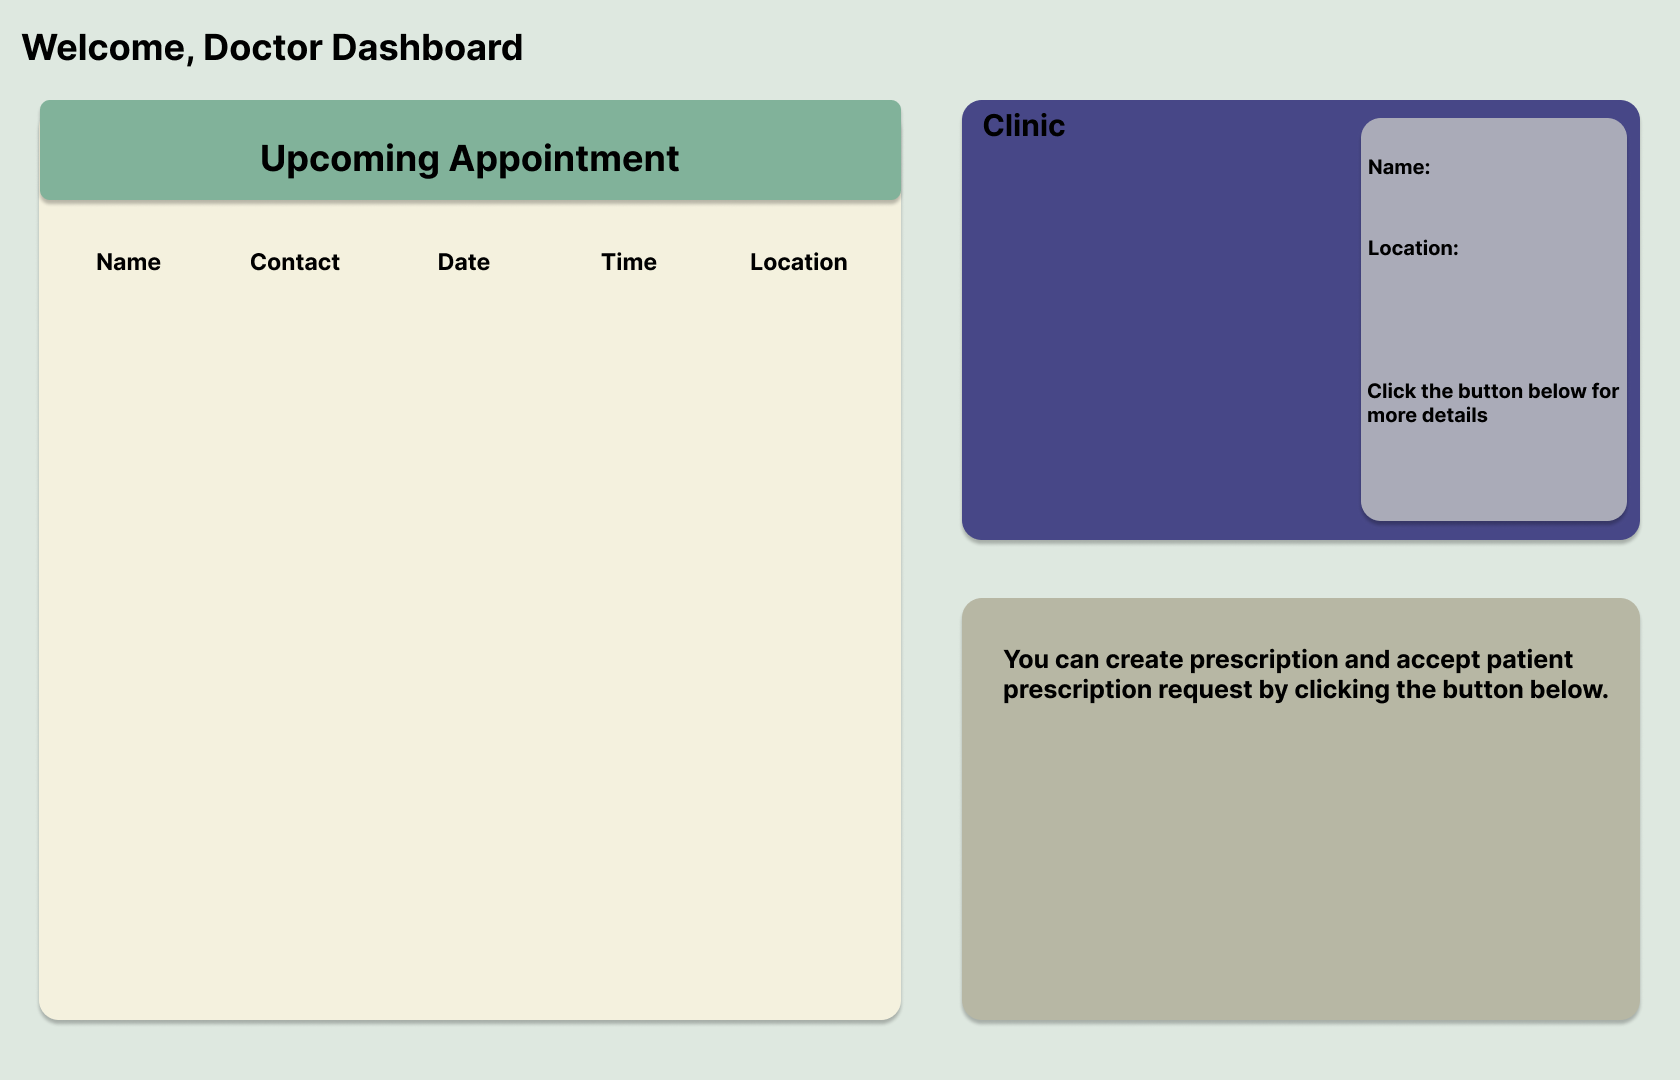
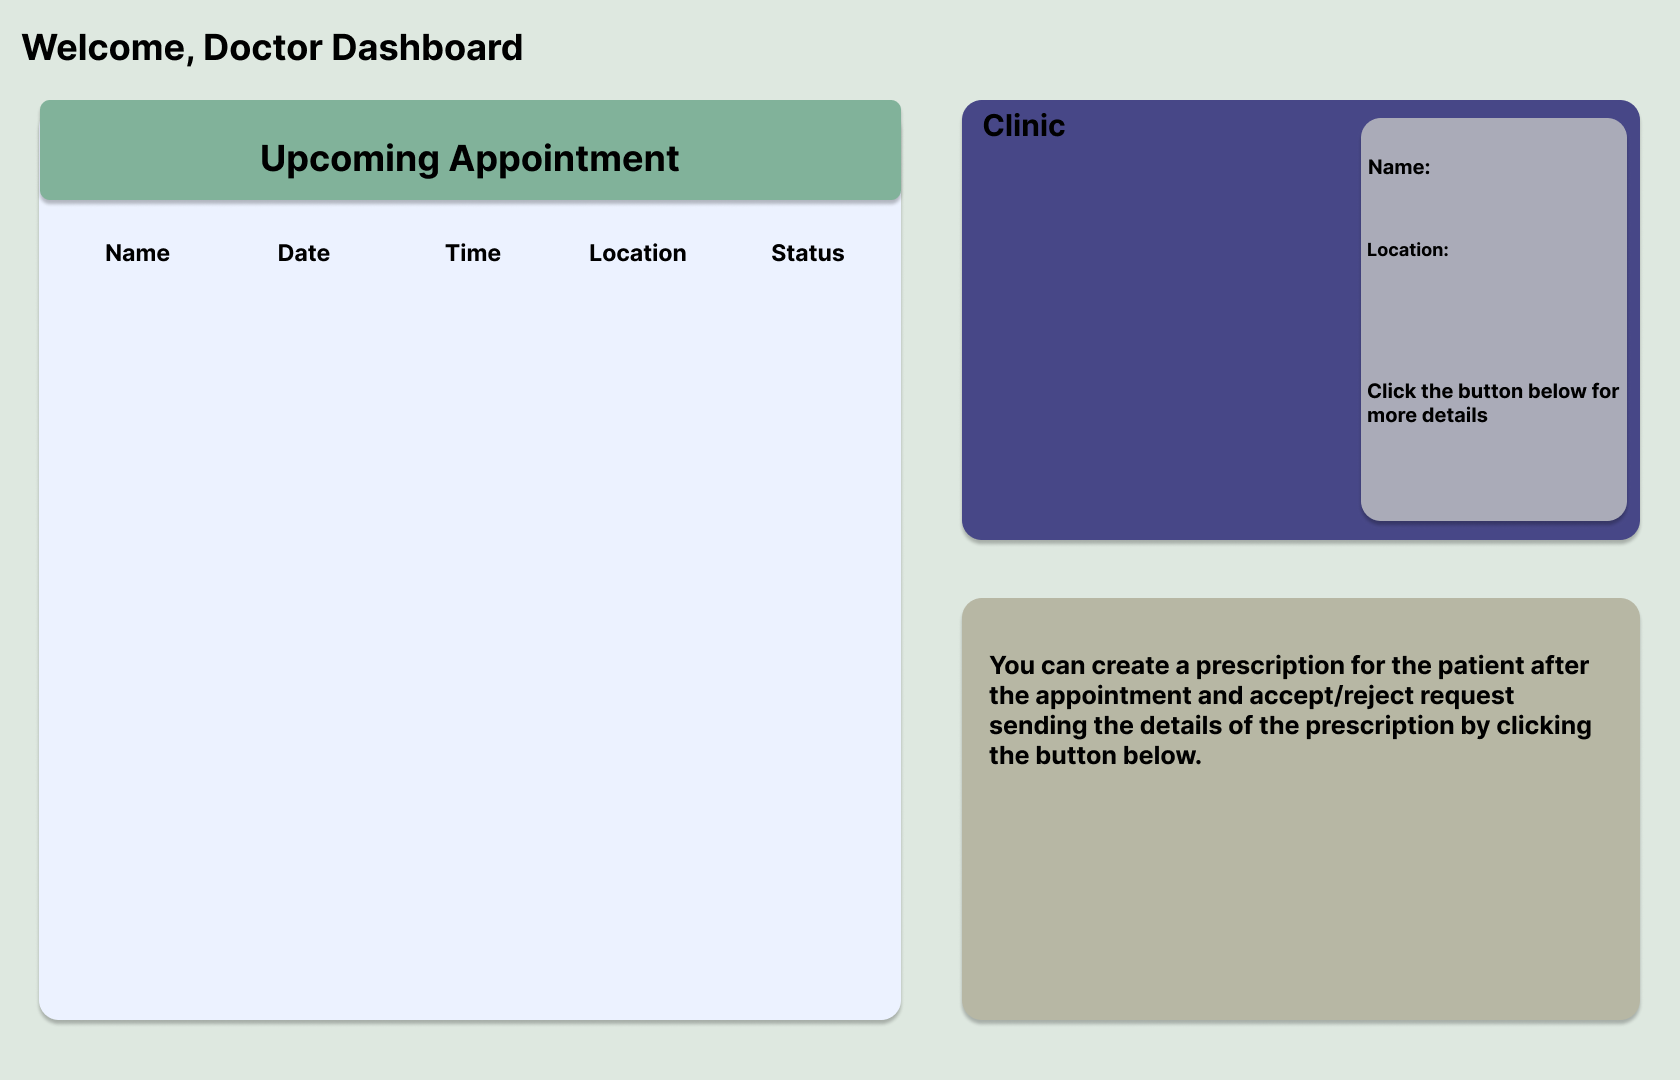
doctor information added

diff --git a/views/browseClinic/doctorBrowse.py b/views/browseClinic/doctorBrowse.py
@@ -1,3 +1,7 @@
+from __future__ import annotations
+from typing import TYPE_CHECKING
+if TYPE_CHECKING:
+    from views.dashboard.doctorDashboard import DoctorDashboard
 from abc import ABC, abstractmethod
 import calendar
 import re
@@ -5,7 +9,8 @@ import threading
 from tkinter import *
 import tkinter as tk
 from tkinter import messagebox
-from prisma.models import Appointment
+from prisma.models import Clinic
+from PIL import Image, ImageOps, ImageTk
 from ttkbootstrap.constants import *
 from ttkbootstrap.toast import ToastNotification
 from ttkbootstrap.scrolled import ScrolledFrame, ScrolledText
@@ -21,23 +26,25 @@ import tkintermapview
 
 
 class DoctorBrowseClinic(Frame):
-    def __init__(self, parent=None, controller: ElementCreator = None):
+    def __init__(self, parent: DoctorDashboard=None, controller: ElementCreator = None):
         super().__init__(parent, width=1, height=1, bg="#dee8e0", name="secondarypanel")
         self.controller = controller
         self.parent = parent
         gridGenerator(self, 84, 54, "#dee8e0")
         self.grid(row=0, column=12, columnspan=84, rowspan=54, sticky=NSEW)
+        self.user = self.parent.user
         self.prisma = self.controller.mainPrisma
         self.createFrames()
         self.createElements()
         self.getClinicInformation()
+        self.loadClinic()
 
     def createFrames(self):
         pass
 
     def createElements(self):
         self.controller.labelCreator(
-            ipath="assets/Dashboard/DoctorAssets/DoctorClinic.png",
+            ipath="assets/Dashboard/DoctorAssets/DoctorBrowse.png",
             x=0, y=0, classname="DoctorClinic", root=self
         )
 
@@ -58,67 +65,125 @@ class DoctorBrowseClinic(Frame):
             clinic = viewClinicList[0]  
 
 
-            #clinic data
-            #clinic_name = clinic.name
-            #clinic_address = clinic.address
-            #clinic_Phone = clinic.phoneNum
-            #clinic_hrs = clinic.clinicHrs
-            #clinic_city = clinic.city
-            #clinic_state = clinic.state
-            #clinic_zip = clinic.zip
+            # clinic data
+            clinic_name = clinic.name
+            clinic_address = clinic.address
+            clinic_Phone = clinic.phoneNum
+            clinic_hrs = clinic.clinicHrs
+            clinic_city = clinic.city
+            clinic_state = clinic.state
+            clinic_zip = clinic.zip
 
-            #doctor data
-            #doctor_name = clinic.doctor.user.fullName
-            #doctor_speciality = clinic.doctor.speciality
+            # # doctor data
+            # doctor_name = clinic.doctor.user.fullName
+            # doctor_speciality = clinic.doctor.speciality
 
-            #ClinicName = self.controller.scrolledTextCreator(
-            #    x=1295, y=110, width=554, height=72, classname=f"clinic_details_name",
-            #    bg="#FEFEFE", hasBorder=TRUE,
-            #    text=f"{clinic_name}", font=("Inter", 30), fg=BLACK,
-            #    isDisabled=True, isJustified=True, justification="center",
-            #)
+            ClinicName = self.controller.scrolledTextCreator(
+               x=1065, y=110, width=554, height=72, classname=f"clinic_details_name",
+               root=self, bg="#D1E8E2", hasBorder=TRUE,
+               text=f"{clinic_name}", font=("Inter", 30), fg=BLACK,
+               isDisabled=True, isJustified=True, justification="center", isPlaced=True,
+            )
 
             ClinicAddress = self.controller.scrolledTextCreator(
-                x=480, y=220, width=622, height=60, classname=f"clinic_details_address",
-                bg="#FFFFD0", hasBorder=False,
-                text=f"{clinic_address}", font=("Inter", 30), fg=BLACK,
-                isDisabled=True, isJustified=True, justification="left",
+                x=170, y=230, width=700, height=60, classname=f"clinic_details_address",
+                root=self, bg="#D1E8E2", hasBorder=True,
+                text=f"{clinic_address}", font=("Inter", 20), fg=BLACK,
+                isDisabled=True, isJustified=True, justification="center", isPlaced=True,
             )
 
-            ClinicState = self.controller.scrolledTextCreator(
-                x=418, y=320, width=240, height=60, classname=f"clinic_details_status",
-                bg="#FEFEFE", hasBorder=False,
-                text=f"{clinic_Phone}", font=("Inter", 30), fg=BLACK,
-                isDisabled=True, isJustified=True, justification="left",
-            )
-
-            CliniOpenHrs = self.controller.scrolledTextCreator(
-                x=862, y=320, width=240, height=60, classname=f"clinic_details_openhrs",
-                bg="#FEFEFE", hasBorder=False,
-                text=f"{clinic_hrs}", font=("Inter", 30), fg=BLACK,
-                isDisabled=True, isJustified=True, justification="left",
+            ClinicContact = self.controller.scrolledTextCreator(
+                x=170, y=325, width=240, height=60, classname=f"clinic_details_status",
+                root=self, bg="#D1E8E2", hasBorder=True,
+                text=f"{clinic_Phone}", font=("Inter", 20), fg=BLACK,
+                isDisabled=True, isJustified=True, justification="center", isPlaced=True,
             )
 
             ClinicCity = self.controller.scrolledTextCreator(
-                x=418, y=420, width=240, height=60, classname=f"clinic_details_city",
-                bg="#FEFEFE", hasBorder=False,
-                text=f"{clinic_city}", font=("Inter", 30), fg=BLACK,
-                isDisabled=True, isJustified=True, justification="left",
+                x=612, y=325, width=240, height=60, classname=f"clinic_details_openhrs",
+                root=self, bg="#D1E8E2", hasBorder=True,
+                text=f"{clinic_city}", font=("Inter", 20), fg=BLACK,
+                isDisabled=True, isJustified=True, justification="center", isPlaced=True,
             )
 
             ClinicState = self.controller.scrolledTextCreator(
-                x=862, y=420, width=240, height=60, classname=f"clinic_details_state",
-                bg="#FEFEFE", hasBorder=False,
-                text=f"{clinic_state}", font=("Inter", 30), fg=BLACK,
-                isDisabled=True, isJustified=True, justification="left",
+                x=170, y=420, width=240, height=60, classname=f"clinic_details_city",
+                root=self, bg="#D1E8E2", hasBorder=True,
+                text=f"{clinic_state}", font=("Inter", 20), fg=BLACK,
+                isDisabled=True, isJustified=True, justification="center", isPlaced=True,
             )
 
-            ClinicZip = self.controller.scrolledTextCreator(
-                x=418, y=520, width=240, height=60, classname=f"clinic_details_zip",
-                bg="#FEFEFE", hasBorder=False,
-                text=f"{clinic_zip}", font=("Inter", 30), fg=BLACK,
-                isDisabled=True, isJustified=True, justification="left",
+            ClinicZi = self.controller.scrolledTextCreator(
+                x=612, y=420, width=240, height=60, classname=f"clinic_details_state",
+                root=self, bg="#D1E8E2", hasBorder=True,
+                text=f"{clinic_zip}", font=("Inter", 20), fg=BLACK,
+                isDisabled=True, isJustified=True, justification="center", isPlaced=True,
             )
+
+            ClinicHours = self.controller.scrolledTextCreator(
+                x=228, y=515, width=250, height=60, classname=f"clinic_details_zip",
+                root=self, bg="#D1E8E2", hasBorder=True,
+                text=f"{clinic_hrs}", font=("Inter", 20), fg=BLACK,
+                isDisabled=True, isJustified=True, justification="center", isPlaced=True,
+            )
+
+            #DoctorName = self.controller.scrolledTextCreator(
+            #    x=1295, y=110, width=554, height=72, classname=f"clinic_doctor_name",
+            #    bg="#FEFEFE", hasBorder=False,
+            #    isDisabled=True, isJustified=True, justification="center",
+            #)
+
+            #ClinicName = self.controller.scrolledTextCreator(
+            #    x=1295, y=110, width=554, height=72, classname=f"clinic_doctor_name",
+            #    bg="#FEFEFE", hasBorder=False,
+            #    text=f"{clinic_name}", font=("Inter", 30), fg=BLACK,
+            #    isDisabled=True, isJustified=True, justification="center",
+            #)
+    
+
+
+    def loadClinic(self):
+        prisma = self.prisma
+        clinic = prisma.clinic.find_first(
+            where={
+                "doctor":{
+                    "some": {
+                        "userId": self.user.id
+                    }
+                }
+            },
+        )
+        R = self
+        self.viewedClinic = clinic
+        img = self.controller.decodingBase64Data(clinic.clinicImg)
+        self.viewedClinicTitle = self.controller.scrolledTextCreator(
+            x=120, y=20, width=720, height=80, root=R, classname="doctor_loadedclinic_title",
+            bg="#dee8e0",
+            text=f"Browsing Details of { clinic.name }", font=("Inter Bold", 24), fg=BLACK,
+            isDisabled=True, isJustified=True, justification="left",
+        )
+        img = ImageOps.contain(img, (693, 793), Image.Resampling.BICUBIC)
+        self.clinicImage = self.controller.labelCreator(
+            x=40, y=120, classname="doctor_loadedclinic_image", root=R,
+            ipath="assets/BrowseClinic/Patient/BrowseSingleClinic/ClinicImagePlaceholder.png",
+            bg="#a6cbff",
+            isPlaced=True
+        )
+        self.controller.imageDict["doctor_loadedclinic_image"] = ImageTk.PhotoImage(
+            img
+        )
+        newImage = self.controller.imageDict["doctor_loadedclinic_image"]
+        self.clinicImage.configure(image=newImage, width=693, height=793)
+        self.clinicImage.place(x=965, y=120, width=700, height=700)
+        formatAddress = f"{clinic.address}, {clinic.zip}, {clinic.city}, {clinic.state.replace('_', ' ').title()}"
+        self.clinicAddress = self.controller.scrolledTextCreator(
+            x=140, y=1000, width=660, height=100, root=self.loadedClinicFrame, classname="patient_loadedclinic_address",
+            bg=WHITE, hasBorder=BLACK,
+            text=formatAddress, font=("Inter Bold", 18), fg=BLACK,
+            isDisabled=True, isJustified=True, justification="left",
+            hasVbar=False
+        )
+
 
             #DoctorName = self.controller.scrolledTextCreator(
             #    x=1295, y=110, width=554, height=72, classname=f"clinic_doctor_name",

diff --git a/views/dashboard/doctorDashboard.py b/views/dashboard/doctorDashboard.py
@@ -58,19 +58,26 @@ class DoctorDashboard(Frame):
 
     def ScrolledFrame(self):
         prisma = self.prisma
+        doctor = prisma.doctor.find_first(
+            where={
+                "userId" : self.user.id
+            }
+        )
         viewAppointment = prisma.appointment.find_many(
+            where={
+                "doctorId":doctor.id
+            },
             include={
-                "patient": {
+                "appRequest": {
                     "include": {
-                        "user":True,
+                        "patient": {
+                            "include": {
+                                "user": True
+                            }
+                        }
                     }
-                },
-                "doctor": {
-                    "include": {
-                        "clinic":True,
-                    }
-                }    
-            } 
+                }
+            }
         )
 
         h = len(viewAppointment) * 120
@@ -84,8 +91,8 @@ class DoctorDashboard(Frame):
         COORDS = (5, 5)
         for appointments in viewAppointment:
 
-            patientName = appointments.patient.user.fullName
-            patientContact = appointments.patient.user.contactNo
+            patientName = appointments.appRequest.patient.user.fullName
+            patientContact = appointments.appRequest.patient.user.fullName
 
 
             X = COORDS[0]
@@ -108,14 +115,13 @@ class DoctorDashboard(Frame):
                 text=f"{patientContact}", font=("Inter", 18), fg=WHITE,
                 isDisabled=True, isJustified=True, justification="center",
             )
-            patientAppDate = appointments.startTime  # Replace this with your actual patientAppDate
+            patientAppDate = appointments.startTime 
 
-# Extract date and time components
+
             date_part = patientAppDate.date()
             time_part = patientAppDate.time()
 
-# Format the date and time as strings
-            date_string = date_part.strftime('%Y-%m-%d')  # Customize the date format as needed
+            date_string = date_part.strftime('%Y-%m-%d') 
             time_string = time_part.strftime('%H:%M:%S')
             UpAppDate = self.controller.scrolledTextCreator(
                 x=X+340, y=Y+30, width=145, height=60, root=R, classname=f"{appointments.id}_App_date",

diff --git a/views/patientRequests/doctorViewRequests.py b/views/patientRequests/doctorViewRequests.py
@@ -55,7 +55,7 @@ class DoctorViewPatientRequests(Frame):
             master=self, autohide=True, width=640, height=345,
         )
         self.presTitle.place(
-            x=60, y=303, w=797 ,h=94,
+            x=40, y=299, w=839 ,h=120,
         )
         self.presTitleTextArea = self.presTitle.text
 
@@ -63,7 +63,7 @@ class DoctorViewPatientRequests(Frame):
             master=self, autohide=True, width=640, height=345,
         )
         self.presDesc.place(
-            x=60, y=524 ,w=797 ,h=276,
+            x=40, y=521 ,w=839 ,h=288,
         )
         self.presTitleTextArea = self.presTitle.text
 
